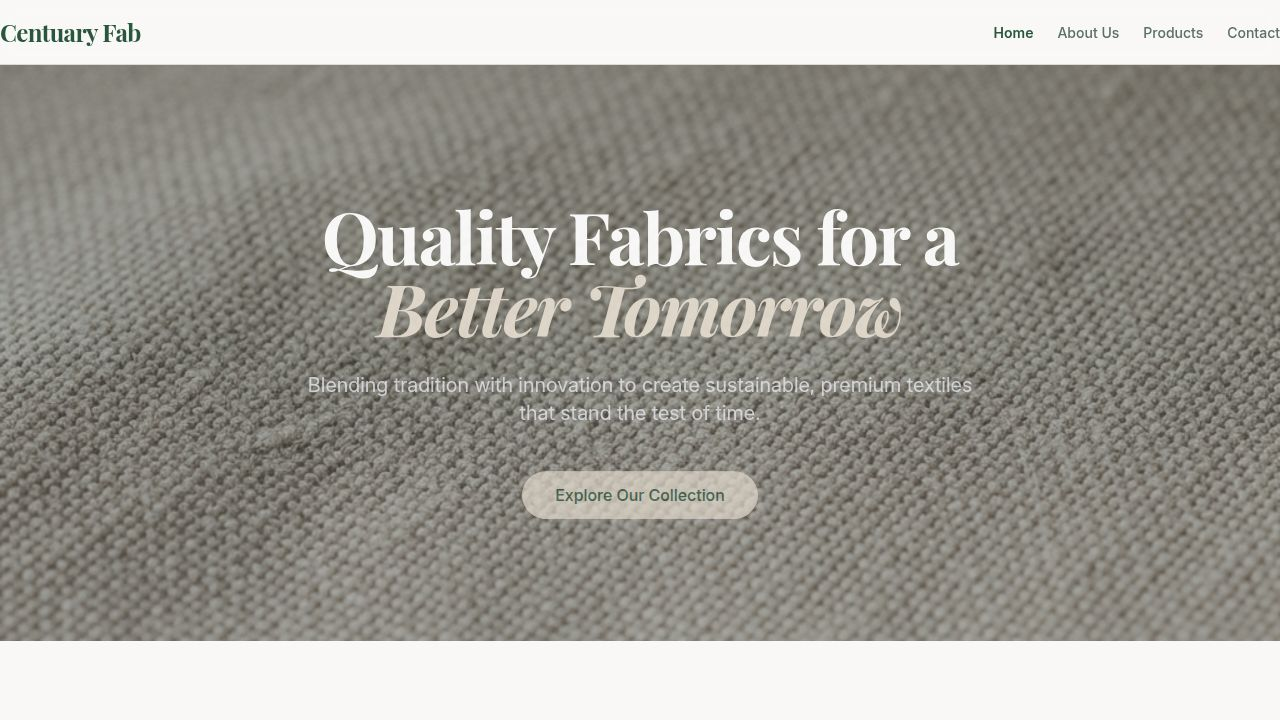
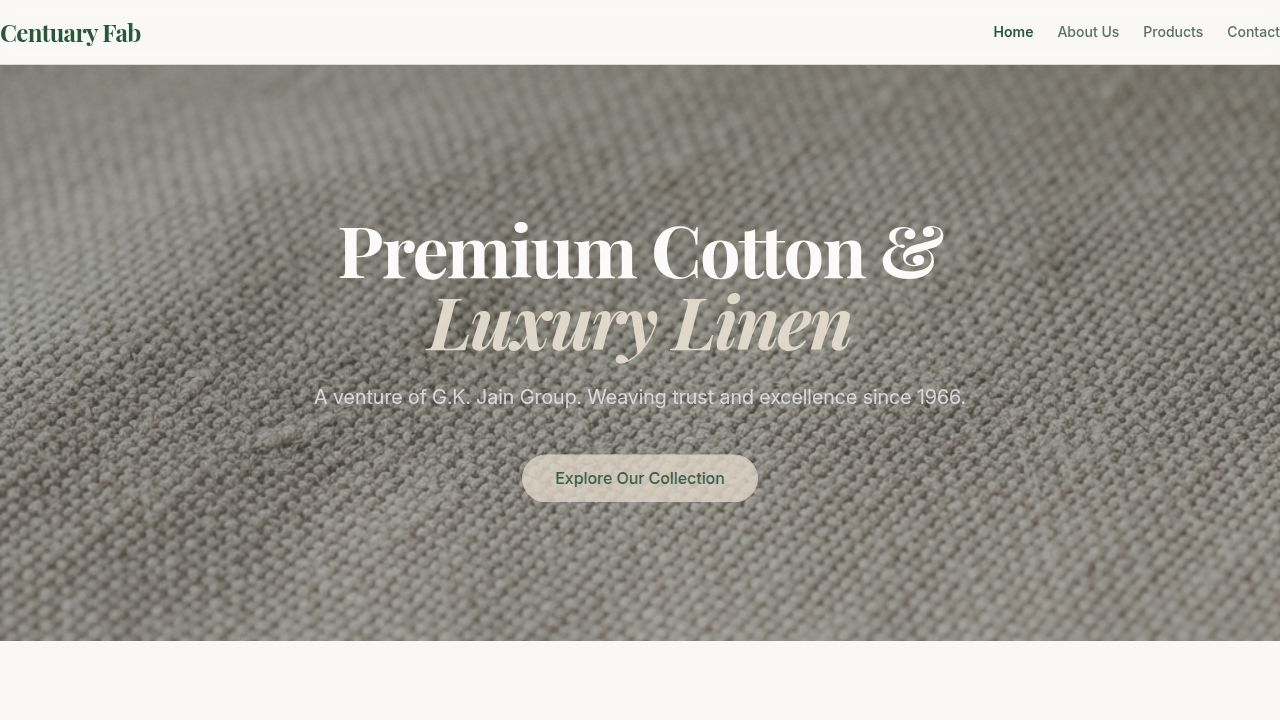
Expand company history and add legacy details to the website
Update the About Us page with a detailed company timeline, history, and key milestones from the G.K. Jain Group's founding in 1966. Enhance the Home page to reflect the group's legacy and turnover.

Replit-Commit-Author: Agent
Replit-Commit-Session-Id: fd2f054e-61c4-4eeb-accf-d3ff9b5adcde
Replit-Commit-Checkpoint-Type: full_checkpoint
Replit-Commit-Event-Id: 34374b99-78b7-46e3-91e4-54f44b5d2b02
Replit-Commit-Screenshot-Url: https://storage.googleapis.com/screenshot-production-us-central1/f300ec73-ab59-48dd-8514-c20a3836775c/fd2f054e-61c4-4eeb-accf-d3ff9b5adcde/iNy3WWV
Replit-Helium-Checkpoint-Created: true

diff --git a/client/src/pages/About.tsx b/client/src/pages/About.tsx
@@ -1,37 +1,37 @@
 import { Card, CardContent } from "@/components/ui/card";
 import aboutImage from "@/assets/about-craft.png";
-import { Calendar, Factory, Globe, Award, TrendingUp } from "lucide-react";
+import { Calendar, Factory, Globe, Award, TrendingUp, Briefcase, MapPin, Users } from "lucide-react";
 
 export default function About() {
   const milestones = [
     {
+      year: "1966",
+      title: "The Foundation",
+      description: "Founded by Shree Ghewarchand Kesarimal Jain as a textile trading business in Hariyar, laying the groundwork for a legacy of integrity.",
+      icon: Briefcase
+    },
+    {
+      year: "1990s",
+      title: "Strategic Expansion",
+      description: "Operations moved to Erode (near Coimbatore), a major textile hub, with the establishment of Dilip Kumar Mills.",
+      icon: MapPin
+    },
+    {
       year: "1995",
-      title: "The Beginning",
-      description: "Centuary Fab was founded in a small workshop with just 10 handlooms and a passion for pure cotton.",
+      title: "Centuary Processing Mills",
+      description: "Established under the leadership of Mr. Ghevarchand Dalchand Jain (Mahaveer Chopra), marking a significant shift into processing.",
       icon: Factory
     },
     {
-      year: "2005",
-      title: "Expansion Phase",
-      description: "Transitioned to semi-automated looms while retaining hand-finishing techniques to increase production capacity.",
+      year: "2004",
+      title: "Corporate Evolution",
+      description: "Centuary Processing Mill (India) Pvt. Ltd. was formed, structuring the business for scalable growth and modernization.",
       icon: TrendingUp
     },
     {
-      year: "2012",
-      title: "Going Global",
-      description: "Secured our first major international partnership, exporting fine Indian textiles to European fashion houses.",
-      icon: Globe
-    },
-    {
-      year: "2018",
-      title: "Sustainability Pledge",
-      description: "Achieved GOTS (Global Organic Textile Standard) certification and shifted to 100% eco-friendly dyes.",
-      icon: Award
-    },
-    {
-      year: "2024",
-      title: "Luxury Linen Launch",
-      description: "Inaugurated a dedicated facility for processing premium European flax, establishing our Luxury Linen line.",
+      year: "2021",
+      title: "Centuary Fab India",
+      description: "Established in July as the group's newest venture, dedicated exclusively to producing premium-quality fabrics for the modern market.",
       icon: Calendar
     }
   ];
@@ -41,31 +41,44 @@ export default function About() {
       <div className="container space-y-20">
         {/* Header */}
         <div className="text-center max-w-3xl mx-auto space-y-4">
+          <span className="text-primary font-medium tracking-wide uppercase text-sm">G.K. Jain Group</span>
           <h1 className="font-heading text-4xl md:text-5xl font-bold text-foreground">Our Story</h1>
           <p className="text-xl text-muted-foreground">
-            From humble beginnings to a legacy of textile excellence.
+            A legacy of textile excellence spanning over five decades.
           </p>
         </div>
 
         {/* Content Section */}
         <div className="grid md:grid-cols-2 gap-12 items-center">
           <div className="order-2 md:order-1 space-y-6">
-            <h2 className="font-heading text-3xl font-bold">A Legacy of Weaving</h2>
+            <h2 className="font-heading text-3xl font-bold">A Heritage of Trust</h2>
             <div className="space-y-4 text-muted-foreground leading-relaxed">
               <p>
-                Founded with a vision to bring the finest quality textiles to the world, Centuary Fab has 
-                grown from a small weaving unit to a renowned name in the fabric industry. Our journey is 
-                stitched with dedication, hard work, and an unwavering commitment to quality.
+                Centuary Fab India Private Limited is a distinguished name in textile manufacturing, operating under the 
+                esteemed G.K. Jain Group. Our roots trace back to 1966, when our founder, Shree Ghewarchand Kesarimal Jain, 
+                established a modest textile trading business in Hariyar.
               </p>
               <p>
-                We specialization in pure natural fibers is what sets us apart. We believe that true luxury lies in nature's 
-                finest offerings. From the crisp breathability of our premium cottons to the sophisticated 
-                drape of our pure linens, every fabric we produce is a testament to authentic craftsmanship.
+                Over the decades, guided by generational values of integrity and quality, we expanded from trading to 
+                manufacturing. From Hariyar to Ichalkaranji, Hubli, and eventually Erode, our journey has been one of 
+                continuous evolution. Today, we stand as a symbol of trust, known for our commitment to producing 
+                premium shirting and suiting fabrics.
               </p>
               <p>
-                Today, we stand proud as a brand that bridges the gap between traditional Indian textile heritage 
-                and modern fashion needs, serving clients across the globe who appreciate the value of uncompromising quality.
+                With over 200 skilled professionals and a network of 250+ dealers across India, we continue to weave 
+                tradition with modernity, delivering excellence in every meter of fabric.
               </p>
+            </div>
+            
+            <div className="grid grid-cols-2 gap-4 pt-4">
+              <div className="p-4 bg-muted/30 rounded-lg border border-border/50">
+                <span className="block text-2xl font-bold text-primary">₹300M+</span>
+                <span className="text-sm text-muted-foreground">Annual Turnover</span>
+              </div>
+              <div className="p-4 bg-muted/30 rounded-lg border border-border/50">
+                <span className="block text-2xl font-bold text-primary">200+</span>
+                <span className="text-sm text-muted-foreground">Premium Qualities</span>
+              </div>
             </div>
           </div>
           <div className="order-1 md:order-2">
@@ -82,7 +95,7 @@ export default function About() {
         {/* Timeline Section */}
         <div className="py-10">
           <div className="text-center mb-16">
-            <h2 className="font-heading text-3xl font-bold mb-4">Milestones in Our Journey</h2>
+            <h2 className="font-heading text-3xl font-bold mb-4">Timeline of Our Journey</h2>
             <div className="h-1 w-20 bg-primary mx-auto rounded-full"></div>
           </div>
 
@@ -118,26 +131,59 @@ export default function About() {
           </div>
         </div>
 
-        {/* Vision & Mission */}
-        <div className="grid md:grid-cols-2 gap-8">
-          <Card className="bg-primary text-primary-foreground border-none">
-            <CardContent className="p-8 space-y-4">
-              <h3 className="font-heading text-2xl font-bold">Our Vision</h3>
-              <p className="opacity-90 leading-relaxed">
-                To be the global benchmark in sustainable textile manufacturing, recognized for 
-                innovation, quality, and ethical practices that empower artisans and protect our planet.
+        {/* Vision, Mission & Values */}
+        <div className="space-y-12">
+          <div className="grid md:grid-cols-2 gap-8">
+            <Card className="bg-primary text-primary-foreground border-none">
+              <CardContent className="p-8 space-y-4">
+                <div className="p-3 bg-white/10 w-fit rounded-full mb-2">
+                   <Globe className="h-6 w-6" />
+                </div>
+                <h3 className="font-heading text-2xl font-bold">Our Vision</h3>
+                <p className="opacity-90 leading-relaxed text-lg">
+                  To be a global leader in the textile industry, recognized for our commitment to quality, innovation, 
+                  and sustainable practices that enrich lives and communities.
+                </p>
+              </CardContent>
+            </Card>
+            <Card className="bg-secondary text-secondary-foreground border-none">
+              <CardContent className="p-8 space-y-4">
+                <div className="p-3 bg-black/5 w-fit rounded-full mb-2">
+                   <Award className="h-6 w-6" />
+                </div>
+                <h3 className="font-heading text-2xl font-bold">Our Mission</h3>
+                <p className="opacity-90 leading-relaxed text-lg">
+                  To consistently manufacture premium quality fabrics that exceed customer expectations, while fostering 
+                  a culture of integrity, growth, and environmental responsibility.
+                </p>
+              </CardContent>
+            </Card>
+          </div>
+
+          <div className="bg-muted/20 p-8 md:p-12 rounded-xl border border-border/50">
+             <div className="text-center max-w-2xl mx-auto mb-10">
+              <h2 className="font-heading text-3xl font-bold mb-4">Core Values</h2>
+              <p className="text-muted-foreground">
+                The principles that have guided the G.K. Jain Group for over 50 years.
               </p>
-            </CardContent>
-          </Card>
-          <Card className="bg-secondary text-secondary-foreground border-none">
-            <CardContent className="p-8 space-y-4">
-              <h3 className="font-heading text-2xl font-bold">Our Mission</h3>
-              <p className="opacity-90 leading-relaxed">
-                To consistently deliver superior quality fabrics that meet evolving customer needs while 
-                maintaining a minimal environmental footprint and fostering a culture of trust and transparency.
-              </p>
-            </CardContent>
-          </Card>
+            </div>
+            
+            <div className="grid sm:grid-cols-2 md:grid-cols-3 gap-6">
+              {[
+                { title: "Quality", desc: "Uncompromising standards in every thread." },
+                { title: "Integrity", desc: "Honesty and transparency in all dealings." },
+                { title: "Innovation", desc: "Embracing modern technology for better products." },
+                { title: "Customer Focus", desc: "Building lasting relationships through service." },
+                { title: "Sustainability", desc: "Responsible manufacturing for a greener future." },
+                { title: "Legacy", desc: "Honoring our roots while looking ahead." }
+              ].map((val) => (
+                <div key={val.title} className="bg-background p-6 rounded-lg shadow-sm border border-border/50 text-center hover:scale-105 transition-transform duration-300">
+                  <h3 className="font-bold text-lg text-primary mb-2">{val.title}</h3>
+                  <p className="text-sm text-muted-foreground">{val.desc}</p>
+                </div>
+              ))}
+            </div>
+          </div>
         </div>
       </div>
     </div>

diff --git a/client/src/pages/Home.tsx b/client/src/pages/Home.tsx
@@ -1,6 +1,6 @@
 import { Button } from "@/components/ui/button";
 import { Link } from "wouter";
-import { ArrowRight, CheckCircle2, Leaf, ShieldCheck } from "lucide-react";
+import { ArrowRight, CheckCircle2, Leaf, ShieldCheck, TrendingUp } from "lucide-react";
 import heroImage from "@/assets/hero-fabric.png";
 import aboutImage from "@/assets/about-craft.png";
 
@@ -24,7 +24,7 @@ export default function Home() {
             <span className="text-secondary italic">Luxury Linen</span>
           </h1>
           <p className="text-lg md:text-xl text-gray-200 max-w-2xl mx-auto animate-in fade-in slide-in-from-bottom-8 duration-1000 delay-200">
-            Blending tradition with innovation to create sustainable, premium textiles that stand the test of time.
+            A venture of G.K. Jain Group. Weaving trust and excellence since 1966.
           </p>
           <div className="pt-4 animate-in fade-in slide-in-from-bottom-8 duration-1000 delay-300">
             <Link href="/products">
@@ -49,8 +49,8 @@ export default function Home() {
                 />
               </div>
               <div className="absolute -bottom-8 -right-8 w-48 h-48 bg-primary p-6 rounded-lg text-primary-foreground flex flex-col justify-center items-center text-center shadow-xl hidden md:flex">
-                <span className="text-5xl font-bold font-heading">25+</span>
-                <span className="text-sm mt-2 font-medium">Years of Excellence</span>
+                <span className="text-5xl font-bold font-heading">50+</span>
+                <span className="text-sm mt-2 font-medium">Years of Legacy</span>
               </div>
             </div>
             
@@ -60,17 +60,16 @@ export default function Home() {
                 Masters of Pure Natural Fabrics
               </h2>
               <p className="text-muted-foreground text-lg leading-relaxed">
-                Centuary Fab is a premier manufacturer specializing exclusively in high-count cotton and pure linen fabrics. 
-                Rooted in the rich heritage of Indian textiles, we combine traditional craftsmanship 
-                with modern technology to produce fabrics that represent the pinnacle of natural luxury.
+                Centuary Fab India Pvt. Ltd. is a premier manufacturer specializing exclusively in high-count cotton and pure linen fabrics. 
+                As part of the esteemed G.K. Jain Group, we carry forward a rich legacy of over five decades in the textile industry.
               </p>
               
               <div className="grid grid-cols-1 sm:grid-cols-2 gap-4 pt-4">
                 {[
-                  "100% Premium Cotton",
-                  "Pure European Linen",
-                  "Eco-friendly Processes",
-                  "Global Export Standards"
+                  "Heritage since 1966",
+                  "200+ Premium Qualities",
+                  "Network of 250+ Dealers",
+                  "Turnover of ₹300M+"
                 ].map((item) => (
                   <div key={item} className="flex items-center gap-3">
                     <CheckCircle2 className="h-5 w-5 text-primary" />
@@ -108,9 +107,9 @@ export default function Home() {
                 desc: "Every meter of fabric undergoes rigorous quality checks to ensure perfection."
               },
               {
-                icon: Leaf,
-                title: "Sustainability",
-                desc: "Committed to eco-friendly practices, organic materials, and responsible manufacturing."
+                icon: TrendingUp,
+                title: "Business Integrity",
+                desc: "Honesty and transparency have been the cornerstones of our growth for 50 years."
               },
               {
                 icon: CheckCircle2,
